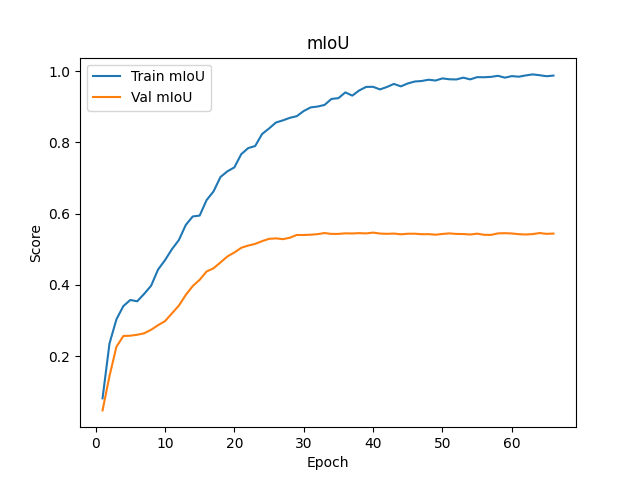
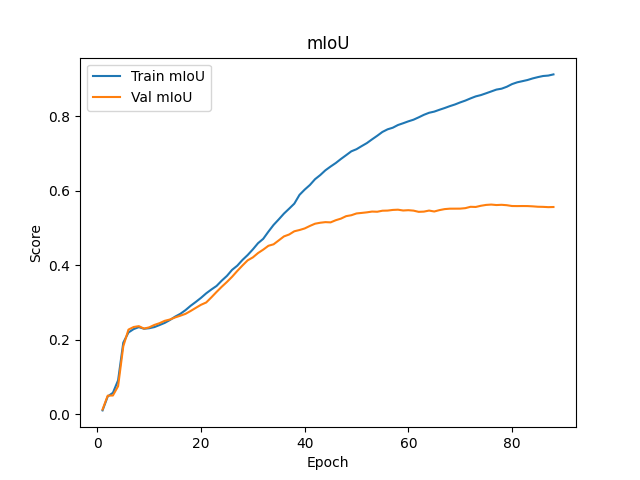
1

diff --git a/PyramidMixer/segpyramidmixer.py b/PyramidMixer/segpyramidmixer.py
@@ -14,10 +14,10 @@ import torch.nn as nn
 import torch.nn.functional as F
 import torch.optim as optim
 from torch.utils.data import DataLoader, Dataset, WeightedRandomSampler
-from torchvision import transforms
 from torchvision.transforms import functional as TF
 from torchvision.transforms import InterpolationMode
 import matplotlib.pyplot as plt
+
 warnings.filterwarnings("ignore")
 
 torch.backends.cudnn.benchmark = True
@@ -43,13 +43,13 @@ GROUP_SIZE = 60
 
 MADOS_ROOT = "./MADOS"
 RESOLUTION = "10"
-NUM_CLASSES = 20 
+NUM_CLASSES = 20
 
 BASE_LR = 2e-4
 MIN_LR = 1e-6
-WEIGHT_DECAY = 0.05
-DROP_RATE = 0.03
-DROP_PATH_RATE = 0.02
+WEIGHT_DECAY = 0.08
+DROP_RATE = 0.05
+DROP_PATH_RATE = 0.05
 
 CHECKPOINT_PATH = "checkpoint_mados.pth"
 BEST_PATH = "best_mados.pth"
@@ -62,14 +62,7 @@ def seed_everything(seed: int = 42):
     torch.cuda.manual_seed_all(seed)
 
 
-# =====================
-# DATASET HELPERS
-# =====================
 def parse_split_entry(entry: str):
-    """
-    Split entries look like: Scene_12_34
-    Meaning: scene id = 12, crop id = 34
-    """
     m = re.fullmatch(r"Scene_(\d+)_(\d+)", entry.strip())
     if m:
         scene_id = int(m.group(1))
@@ -77,22 +70,21 @@ def parse_split_entry(entry: str):
         return scene_id, crop_id
     raise ValueError(f"Cannot parse split entry: {entry}")
 
+
 def build_sample_weights(train_dataset):
     weights = []
 
     for _, cl_path in train_dataset.samples:
         mask = np.array(Image.open(cl_path), dtype=np.int64)
         valid_pixels = np.sum((mask != 0) & (mask != 255))
-        w = math.sqrt(float(valid_pixels))
+        w = 1.0 + math.sqrt(float(valid_pixels))
         weights.append(w)
 
     weights = torch.tensor(weights, dtype=torch.double)
     weights = weights / weights.mean()
     return weights
 
-# =====================
-# DATASET
-# =====================
+
 class MADOSSegDataset(Dataset):
     def __init__(
         self,
@@ -138,7 +130,6 @@ class MADOSSegDataset(Dataset):
             if rgb_path is None or cl_path is None or not rgb_path.exists() or not cl_path.exists():
                 continue
 
-            # Drop empty examples up-front so they never reach the DataLoader.
             if self.filter_empty:
                 mask = np.array(Image.open(cl_path), dtype=np.int64)
                 valid_pixels = np.sum((mask != 0) & (mask != 255))
@@ -201,9 +192,6 @@ class MADOSSegDataset(Dataset):
         return x, y
 
 
-# =====================
-# MODEL UTILS
-# =====================
 class DropPath(nn.Module):
     def __init__(self, drop_prob=0.0):
         super().__init__()
@@ -233,9 +221,6 @@ def best_factor_pair(n: int):
     return 1, n
 
 
-# =====================
-# PATCH EMBEDDING
-# =====================
 class PatchEmbed(nn.Module):
     def __init__(self, img_size, patch_size, dim, in_chans):
         super().__init__()
@@ -253,9 +238,6 @@ class PatchEmbed(nn.Module):
         return self.proj(x)
 
 
-# =====================
-# CHUNKED PATCH MIXER
-# =====================
 class ChunkPatchMixer(nn.Module):
     def __init__(self, dim, chunk_size=60, heads=4, drop_path=0.0, dropout=0.0):
         super().__init__()
@@ -326,16 +308,13 @@ class ChunkPatchMixer(nn.Module):
         n_pad = x.shape[1]
         g = n_pad // self.chunk_size
 
-        # [B, N, C] -> [B, G, S, C], where S is the chunk size.
         xg = x.view(b, g, self.chunk_size, c)
 
-        # Step 1: attention inside each chunk.
         y = self.norm1(xg).view(b * g, self.chunk_size, c)
         y, _ = self.attn(y, y, y, need_weights=False)
         y = y.view(b, g, self.chunk_size, c)
         xg = xg + self.drop_path(y)
 
-        # Step 2: first transpose-style mixing + MLP1.
         y = self.norm2(xg).view(b, g, self.chunk_h, self.chunk_w, c)
         y = y.permute(0, 1, 2, 4, 3).contiguous()
         y = y.view(b * g * self.chunk_h, c, self.chunk_w)
@@ -344,7 +323,6 @@ class ChunkPatchMixer(nn.Module):
         y = y.view(b, g, self.chunk_size, c)
         xg = xg + self.drop_path(y)
 
-        # Step 3: transpose again + MLP2.
         y = self.norm3(xg).view(b, g, self.chunk_h, self.chunk_w, c)
         y = y.transpose(2, 3).contiguous()
         y = y.view(b * g * self.chunk_w, c, self.chunk_h)
@@ -353,7 +331,6 @@ class ChunkPatchMixer(nn.Module):
         y = y.view(b, g, self.chunk_size, c)
         xg = xg + self.drop_path(y)
 
-        # Step 4: channel mixing.
         y = self.channel_mlp(self.norm4(xg))
         xg = xg + self.drop_path(y)
 
@@ -364,9 +341,6 @@ class ChunkPatchMixer(nn.Module):
         return self._from_tokens(x, spatial)
 
 
-# =====================
-# PATCH MERGE
-# =====================
 class PatchMerge(nn.Module):
     def __init__(self, dim):
         super().__init__()
@@ -393,9 +367,6 @@ class PatchMerge(nn.Module):
         return x
 
 
-# =====================
-# DECODER
-# =====================
 class DecoderUpBlock(nn.Module):
     def __init__(self, dim):
         super().__init__()
@@ -412,9 +383,6 @@ class DecoderUpBlock(nn.Module):
         return self.block(x)
 
 
-# =====================
-# MODEL
-# =====================
 class SegPyramidMixerAttention(nn.Module):
     def __init__(self, in_chans: int, num_classes: int):
         super().__init__()
@@ -489,9 +457,6 @@ class SegPyramidMixerAttention(nn.Module):
         return x
 
 
-# =====================
-# METRICS
-# =====================
 @torch.no_grad()
 def compute_metrics(logits, targets, num_classes=3, ignore_index=255):
     preds = logits.argmax(dim=1)
@@ -517,36 +482,6 @@ def compute_metrics(logits, targets, num_classes=3, ignore_index=255):
     return pixel_acc, miou
 
 
-@torch.no_grad()
-def compute_per_class_iou(model, loader, num_classes=3, ignore_index=255):
-    model.eval()
-    intersections = torch.zeros(num_classes, dtype=torch.float64, device=DEVICE)
-    unions = torch.zeros(num_classes, dtype=torch.float64, device=DEVICE)
-
-    for x, y in loader:
-        x = x.to(DEVICE, non_blocking=True)
-        y = y.to(DEVICE, non_blocking=True)
-        logits = model(x)
-        preds = logits.argmax(dim=1)
-        valid = y != ignore_index
-
-        for cls in range(num_classes):
-            pred_c = preds == cls
-            targ_c = y == cls
-            inter = ((pred_c & targ_c) & valid).sum().item()
-            union = (((pred_c | targ_c) & valid)).sum().item()
-            intersections[cls] += inter
-            unions[cls] += union
-
-    iou = torch.full((num_classes,), float("nan"), dtype=torch.float64, device=DEVICE)
-    nonzero = unions > 0
-    iou[nonzero] = intersections[nonzero] / unions[nonzero]
-    return iou.detach().cpu().numpy()
-
-
-# =====================
-# EMA
-# =====================
 class EMA:
     def __init__(self, model, decay=0.9999):
         self.decay = decay
@@ -600,9 +535,6 @@ class EMA:
                 buffer.copy_(self.backup[name])
 
 
-# =====================
-# EVALUATION
-# =====================
 @torch.inference_mode()
 def evaluate_model(model, loader, criterion, num_classes=NUM_CLASSES, ignore_index=255):
     model.eval()
@@ -649,9 +581,6 @@ def evaluate_model(model, loader, criterion, num_classes=NUM_CLASSES, ignore_ind
     )
 
 
-# =====================
-# TRAINING
-# =====================
 def cosine_with_warmup_factor(epoch: int):
     min_factor = MIN_LR / BASE_LR
     if epoch < WARMUP_EPOCHS:
@@ -661,7 +590,7 @@ def cosine_with_warmup_factor(epoch: int):
     return min_factor + (1.0 - min_factor) * cosine
 
 
-def train(model, train_loader, val_loader, criterion):
+def train(model, train_loader, train_eval_loader, val_loader, criterion):
     model = model.to(DEVICE)
     ema = EMA(model, decay=0.9999)
 
@@ -704,8 +633,6 @@ def train(model, train_loader, val_loader, criterion):
         best_miou = checkpoint.get("best_miou", 0.0)
         print(f"Resumed from epoch {start_epoch}")
 
-
-
     for epoch in range(start_epoch, EPOCHS):
         model.train()
         total_loss = 0.0
@@ -740,13 +667,13 @@ def train(model, train_loader, val_loader, criterion):
             global_step += 1
 
         scheduler.step()
-        avg_loss = total_loss / max(valid_steps, 1)
-        current_lr = optimizer.param_groups[0]["lr"]
 
         ema.apply(model)
-        train_loss_eval, train_pix_acc, train_miou, train_pc_iou = evaluate_model(model, train_loader, criterion)
+        train_loss_eval, train_pix_acc, train_miou, train_pc_iou = evaluate_model(model, train_eval_loader, criterion)
         val_loss, val_pix_acc, val_miou, val_pc_iou = evaluate_model(model, val_loader, criterion)
         ema.restore(model)
+
+        current_lr = optimizer.param_groups[0]["lr"]
 
         history["train_loss"].append(train_loss_eval)
         history["val_loss"].append(val_loss)
@@ -780,6 +707,7 @@ def train(model, train_loader, val_loader, criterion):
                 },
                 BEST_PATH,
             )
+            # print(f"Saved best checkpoint: {BEST_PATH}")
         else:
             epochs_no_improve += 1
 
@@ -797,6 +725,7 @@ def train(model, train_loader, val_loader, criterion):
                 },
                 CHECKPOINT_PATH,
             )
+            # print(f"Saved checkpoint at epoch {epoch}")
 
         if epochs_no_improve >= EARLY_STOP_PATIENCE:
             print(f"Early stopping at epoch {epoch} (no improvement for {EARLY_STOP_PATIENCE} epochs)")
@@ -805,9 +734,6 @@ def train(model, train_loader, val_loader, criterion):
     return history
 
 
-# =====================
-# MAIN
-# =====================
 if __name__ == "__main__":
     freeze_support()
     seed_everything(SEED)
@@ -823,6 +749,16 @@ if __name__ == "__main__":
         label_map=label_map,
         image_size=IMAGE_SIZE,
         train=True,
+        filter_empty=True,
+    )
+    train_eval_dataset = MADOSSegDataset(
+        root=MADOS_ROOT,
+        split="train",
+        resolution=RESOLUTION,
+        label_map=label_map,
+        image_size=IMAGE_SIZE,
+        train=False,
+        filter_empty=True,
     )
     val_dataset = MADOSSegDataset(
         root=MADOS_ROOT,
@@ -831,6 +767,7 @@ if __name__ == "__main__":
         label_map=label_map,
         image_size=IMAGE_SIZE,
         train=False,
+        filter_empty=True,
     )
     test_dataset = MADOSSegDataset(
         root=MADOS_ROOT,
@@ -839,6 +776,7 @@ if __name__ == "__main__":
         label_map=label_map,
         image_size=IMAGE_SIZE,
         train=False,
+        filter_empty=True,
     )
 
     sample_x, sample_y = train_dataset[0]
@@ -854,7 +792,7 @@ if __name__ == "__main__":
     sample_weights = build_sample_weights(train_dataset)
     train_sampler = WeightedRandomSampler(
         weights=sample_weights,
-        num_samples=len(sample_weights) * 2,
+        num_samples=len(sample_weights),
         replacement=True,
     )
 
@@ -864,6 +802,14 @@ if __name__ == "__main__":
         sampler=train_sampler,
         shuffle=False,
         drop_last=True,
+        num_workers=NUM_WORKERS,
+        pin_memory=(DEVICE == "cuda"),
+        persistent_workers=(NUM_WORKERS > 0),
+    )
+    train_eval_loader = DataLoader(
+        train_eval_dataset,
+        batch_size=BATCH_SIZE,
+        shuffle=False,
         num_workers=NUM_WORKERS,
         pin_memory=(DEVICE == "cuda"),
         persistent_workers=(NUM_WORKERS > 0),
@@ -888,14 +834,18 @@ if __name__ == "__main__":
     print("Training SegPyramidMixer...")
     model = SegPyramidMixerAttention(in_chans=in_chans, num_classes=NUM_CLASSES)
     criterion = nn.CrossEntropyLoss(ignore_index=255)
-    history = train(model, train_loader, val_loader, criterion)
+    history = train(model, train_loader, train_eval_loader, val_loader, criterion)
 
     if os.path.exists(BEST_PATH):
         best_ckpt = torch.load(BEST_PATH, map_location=DEVICE, weights_only=False)
         model.load_state_dict(best_ckpt["model"])
 
-    best_train_loss, best_train_pix_acc, best_train_miou, best_train_pc_iou = evaluate_model(model, train_loader, criterion)
-    best_val_loss, best_val_pix_acc, best_val_miou, best_val_pc_iou = evaluate_model(model, val_loader, criterion)
+    best_train_loss, best_train_pix_acc, best_train_miou, best_train_pc_iou = evaluate_model(
+        model, train_eval_loader, criterion
+    )
+    best_val_loss, best_val_pix_acc, best_val_miou, best_val_pc_iou = evaluate_model(
+        model, val_loader, criterion
+    )
 
     class_ids = np.arange(1, NUM_CLASSES + 1)
     width = 0.35
